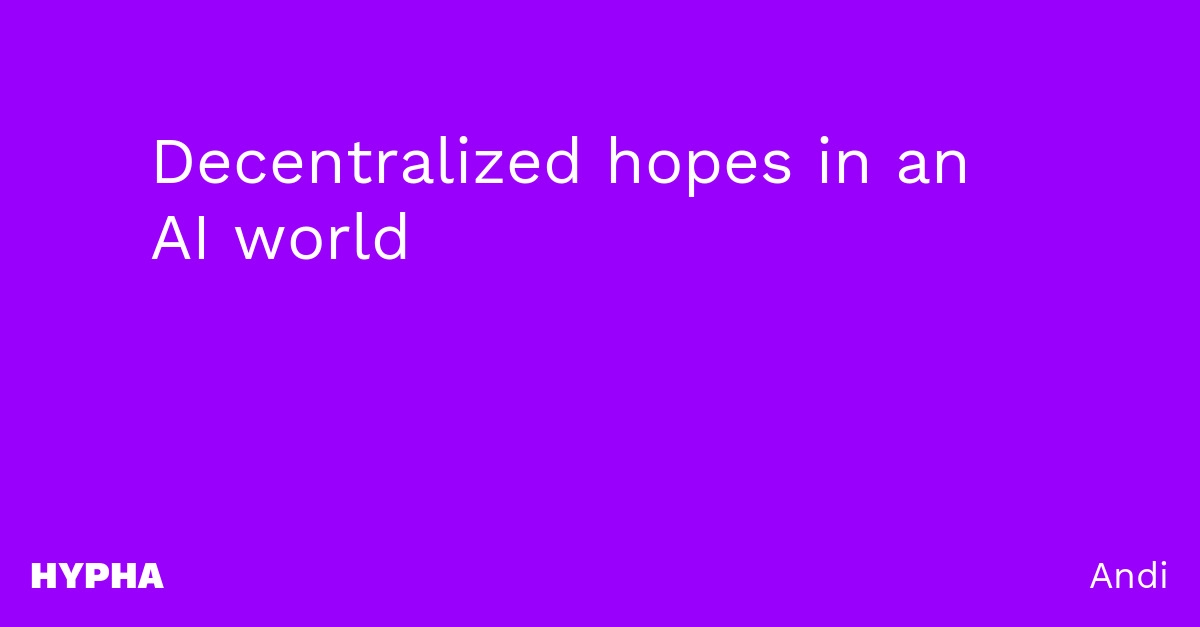
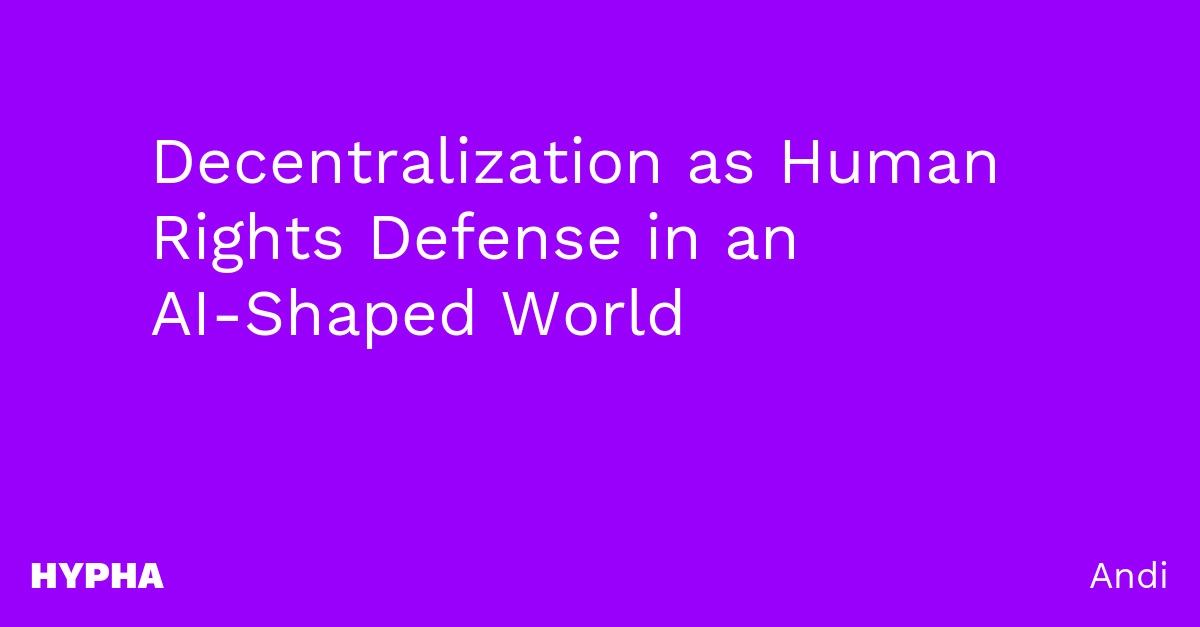
Retitle DWeb retrospective post and update closing copy
- New headline: "Decentralization as Human Rights Defense in an AI-Shaped World"
- Regenerate social card for the new title
- Replace the closing paragraphs with revised copy
- Fix two typos (missing comma after Freedom House link; "as well as")

Changed region(s): [[0.1233, 0.3333, 0.6783, 0.5455], [0.4008, 0.2121, 0.8325, 0.303]]

diff --git a/_posts/2026-11-05-decentralized-hopes-in-an-ai-world.md b/_posts/2026-11-05-decentralized-hopes-in-an-ai-world.md
@@ -1,6 +1,6 @@
 ---
 image: "/assets/images/social/dripline/2026-11-05-decentralized-hopes-in-an-ai-world.webp"
-title: "Decentralized hopes in an AI world"
+title: "Decentralization as Human Rights Defense in an AI-Shaped World"
 author: Andi
 date: 2026-11-05
 acknowledgement:
@@ -28,7 +28,7 @@ excerpt: "A retrospective on the Save DWeb Backend project"
 
 In 2022, The Atlantic ran an article on decentralized technology titled "[The Battle for the Soul of the Web](https://archive.ph/Uds3i)," posing the question as to whether this flavour of tech (the DWeb 'movement' in particular) might be the answer to what ails the surveillance-prone, data extractive Internet. Fast forward four years, and mentions of decentralized tech (or even its commercially hyped counterpart Web 3) have been nearly submerged in noise of generative artificial intelligence.
 
-DWeb Principles that put human agency, openness and interoperability first stand in sharp contrast to the astounding investments in anti-human AI technologies whose impacts range from mere thievery of artistic work to tracking, surveilling, and in the case of drones, killing people. According to a [2025 report by Freedom House](https://freedomhouse.org/report/freedom-net/2025/uncertain-future-global-internet) a pro-democracy organization, "global internet freedom declined for the 15th consecutive year," and that "half of the 18 countries with an internet freedom status of Free suffered score declines during the coverage period." Surveillance has increased across the board – especially in the US where the government has invested impressive sums into surveilling its own people (An [EFF report](https://www.eff.org/deeplinks/2026/01/ice-going-surveillance-shopping-spree) notes that ICE's 2025 budget was 10 times the size of the agency's total surveillance spending over the previous 13 years!). The current digital landscape provides the quintessential David and Goliath set-up of multibillion dollar extractive surveillance platforms, often powered by agentic AI, against the shoestring budgets of human rights defenders, journalists, and citizen archivists.
+DWeb Principles that put human agency, openness and interoperability first stand in sharp contrast to the astounding investments in anti-human AI technologies whose impacts range from mere thievery of artistic work to tracking, surveilling, and in the case of drones, killing people. According to a [2025 report by Freedom House](https://freedomhouse.org/report/freedom-net/2025/uncertain-future-global-internet), a pro-democracy organization, "global internet freedom declined for the 15th consecutive year," and that "half of the 18 countries with an internet freedom status of Free suffered score declines during the coverage period." Surveillance has increased across the board – especially in the US where the government has invested impressive sums into surveilling its own people (An [EFF report](https://www.eff.org/deeplinks/2026/01/ice-going-surveillance-shopping-spree) notes that ICE's 2025 budget was 10 times the size of the agency's total surveillance spending over the previous 13 years!). The current digital landscape provides the quintessential David and Goliath set-up of multibillion dollar extractive surveillance platforms, often powered by agentic AI, against the shoestring budgets of human rights defenders, journalists, and citizen archivists.
 
 Against this backdrop, we thought it was time to revisit the collaboration between [OpenArchive](https://www.open-archive.org/) and Hypha Worker Co-operative, which explored the possibilities inherent in decentralized technology for OpenArchive's global community of citizen archivists. OpenArchive has worked with frontline human rights communities worldwide to securely document, verify and preserve evidence since 2015 via their pioneering [***Save***](https://www.open-archive.org/save) mobile app. Given the rising threats to free and open democracies globally, citizen-led accountability – especially for police and military actions in contested areas – point to the ongoing need for tools like ***Save***. Hypha and OpenArchive's collaboration on a peer-to-peer storage option for the app is detailed in a [2025 white paper](https://www.open-archive.org/pdf/Mobile_DWeb_Archiving.pdf), but in the face of growing discontent with the tech status quo, we want to revisit the project and the role of decentralized tools in fighting authoritarianism, wherever it might occur.
 
@@ -44,15 +44,17 @@ Another factor to consider is the aforementioned technical glue between the prot
 
 ## Looking ahead
 
-So where does the project go from here? The best place to start is, of course, with the people using the tech. OpenArchive's connections with the Decentralized Archiving Community and frontline human rights defenders goes back nearly two decades, so surfacing the concerns from these groups should be the starting point of any additional work on what role decentralized tech might play in future ***Save*** features. Starting with user needs and then connecting those to the technical affordances ensures you're not building backwards. Considering how the threat model has evolved, from a technical POV, is also critical to designing more effective technology. For example, AI is making it more challenging for journalists and legal advocates to ascertain whether evidentiary media they are using has been tampered with, so they need a way to authenticate this media. Also, people facing internet blackouts or shutdowns are especially in need of ways to document, verify, and get media out to the world, so offline capabilities are paramount.  Understanding the current state of affairs, especially how AI has altered media authenticity and provenance as well censorship and surveillance technologies, and working alongside ***Save*** users will yield features that are both intuitive and necessary.
+So where does the project go from here? The best place to start is, of course, with the people using the tech. OpenArchive's connections with the Decentralized Archiving Community and frontline human rights defenders goes back nearly two decades, so surfacing the concerns from these groups should be the starting point of any additional work on what role decentralized tech might play in future ***Save*** features. Starting with user needs and then connecting those to the technical affordances ensures you're not building backwards. Considering how the threat model has evolved, from a technical POV, is also critical to designing more effective technology. For example, AI is making it more challenging for journalists and legal advocates to ascertain whether evidentiary media they are using has been tampered with, so they need a way to authenticate this media. Also, people facing internet blackouts or shutdowns are especially in need of ways to document, verify, and get media out to the world, so offline capabilities are paramount.  Understanding the current state of affairs, especially how AI has altered media authenticity and provenance as well as censorship and surveillance technologies, and working alongside ***Save*** users will yield features that are both intuitive and necessary.
 
-Once this research has been updated, we can reassess the existing DWeb Backend stack. Exploring other protocols – such as [Nym](https://nym.com/), [p2panda](https://github.com/p2panda/p2panda), or revisiting the latest version of Iroh, might work to replace or augment the Veilid nodes. It's also likely that user feedback will yield new evaluation criteria for ***Save***, steering the project in a different technical direction. The options in local-first, offline computing have changed since OpenArchive and Hypha originally embarked on our partnership.
+Our holistic approach ensures our research is evolving alongside the threats so, with continued support, we can reassess the existing DWeb Backend stack so it meets changing needs around security, verification, provenance, and preservation. Exploring other protocols – such as [Nym](https://nym.com/), [p2panda](https://github.com/p2panda/p2panda), or revisiting the latest version of Iroh, might work to replace or augment the Veilid nodes. It's also likely that user feedback will yield new evaluation criteria for ***Save***, which will be incorporated in future builds. The options in local-first, offline computing have changed since OpenArchive and Hypha originally embarked on our partnership, highlighting the need for continued, consistent investment to ensure continuity.
 
-While the DWeb Backend does need some technical fixes, the core functionality was created to meet activists where they are, grounded in ethics, usability, and created to serve those who need it most. As this [EFF article](https://arc.net/l/quote/ihurpbht) points out:
+While the DWeb Backend does need some technical fixes, the core functionality was created to meet activists where they are, grounded in their need for security and verified records preserved on accessible redundant storage. OpenArchive has followed practices of prevention and harm reduction to minimize threats like surveillance, content removal, AI media manipulation, and internet blackouts that front-line human rights defenders regularly face. This work centres the people, not the technology they use.
+
+As this [EFF article](https://arc.net/l/quote/ihurpbht) points out:
 
 > To keep people connected during internet shutdowns and blackouts, communication networks must be operational before and after the disaster or shutdown.
 
-In other words, people need to be using the tools regularly, not just when there is a crisis, and this work is decidedly in the social, not technical realm. Our hope is to find funders and supporters who understand that successful projects put people, not technology first. If you're an organization looking to invest in open-source, privacy-preserving infrastructure for frontline communities, please get in touch.
+In other words, people need to be using the tools regularly, not just when there is a crisis, and this work is decidedly in the social, not technical realm. Society is overdue for truly successful technologies: those that prioritize their interests over profits. The open source, human rights-centered ecosystem we have spent over a decade building offers just that. If you'd like to invest in thoughtful, community-driven open-source, privacy-first tools and infrastructure that honor freedom and justice, please get in touch.
 
 ---
 
